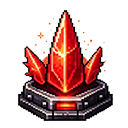
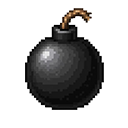
commit15

diff --git a/css/style.css b/css/style.css
@@ -472,7 +472,7 @@ button, input {
   opacity: 0;
   pointer-events: none;
   color: #061120;
-  font-size: 18px;
+  font-size: 20px;
   font-weight: 1000;
   line-height: 1;
   text-align: center;
@@ -524,19 +524,20 @@ button, input {
   opacity: 0;
   transform: translate(-50%, -50%) scale(0.86);
   color: #ffe775;
-  font-size: 21px;
+  font-size: 19px;
   font-weight: 1000;
   line-height: 1;
   text-shadow:
-    0 2px 0 rgba(92, 42, 0, 0.55),
-    0 0 12px rgba(255, 237, 125, 0.95),
-    0 0 30px rgba(255, 85, 124, 0.42);
-  -webkit-text-stroke: 1px rgba(86, 44, 4, 0.42);
+    0 2px 0 rgba(92, 42, 0, 0.92),
+    0 0 15px rgba(255, 237, 125, 1),
+    0 0 34px rgba(255, 85, 124, 0.62),
+    0 0 2px rgba(255, 255, 255, 0.9);
+  -webkit-text-stroke: 1.1px rgba(63, 31, 0, 0.78);
   transition: opacity 0.12s ease, transform 0.12s ease;
 }
 
 .hud-combo-float.visible {
-  opacity: 0.62;
+  opacity: 1;
   transform: translate(-50%, -50%) scale(1);
   animation: comboPulse 0.5s ease-in-out infinite alternate;
 }
@@ -548,15 +549,16 @@ button, input {
   font-weight: 900;
   line-height: 1;
   text-shadow:
-    0 2px 0 rgba(95, 50, 0, 0.5),
-    0 0 10px rgba(255, 228, 95, 0.95),
-    0 0 24px rgba(255, 181, 41, 0.56);
-  -webkit-text-stroke: 1px rgba(82, 43, 0, 0.38);
+    0 2px 0 rgba(95, 50, 0, 0.92),
+    0 0 13px rgba(255, 228, 95, 1),
+    0 0 28px rgba(255, 181, 41, 0.76),
+    0 0 2px rgba(255, 255, 255, 0.86);
+  -webkit-text-stroke: 1.1px rgba(72, 36, 0, 0.76);
 }
 
 @keyframes comboPulse {
-  from { filter: brightness(1); }
-  to { filter: brightness(1.22); }
+  from { filter: brightness(0.96); }
+  to { filter: brightness(1.14); }
 }
 
 @keyframes dashAlertPulse {
@@ -1145,29 +1147,31 @@ body.force-landscape .death-card .btn-secondary {
     top: 30%;
     min-width: 138px;
     padding: 7px 13px;
-    font-size: 15px;
+    font-size: 16px;
   }
 
   .hud-combo-float {
-    font-size: 18px;
+    font-size: 16px;
     text-shadow:
-      0 1px 0 rgba(92, 42, 0, 0.42),
-      0 0 9px rgba(255, 237, 125, 0.72),
-      0 0 20px rgba(255, 85, 124, 0.28);
-    -webkit-text-stroke: 0.5px rgba(86, 44, 4, 0.32);
+      0 1px 0 rgba(92, 42, 0, 0.88),
+      0 0 12px rgba(255, 237, 125, 1),
+      0 0 24px rgba(255, 85, 124, 0.58),
+      0 0 2px rgba(255, 255, 255, 0.88);
+    -webkit-text-stroke: 0.8px rgba(63, 31, 0, 0.7);
   }
 
   .hud-combo-float.visible {
-    opacity: 0.54;
+    opacity: 0.95;
   }
 
   .hud-coin-float {
     font-size: 16px;
     text-shadow:
-      0 1px 0 rgba(95, 50, 0, 0.38),
-      0 0 8px rgba(255, 228, 95, 0.72),
-      0 0 16px rgba(255, 181, 41, 0.36);
-    -webkit-text-stroke: 0.5px rgba(82, 43, 0, 0.28);
+      0 1px 0 rgba(95, 50, 0, 0.86),
+      0 0 11px rgba(255, 228, 95, 1),
+      0 0 21px rgba(255, 181, 41, 0.64),
+      0 0 2px rgba(255, 255, 255, 0.84);
+    -webkit-text-stroke: 0.8px rgba(72, 36, 0, 0.66);
   }
 
   #screen-overlay {

diff --git a/js/hud.js b/js/hud.js
@@ -170,9 +170,7 @@ window.HUD = (function () {
   }
 
   function getComboLabel(combo) {
-    if (combo >= 15) return 'COMBO x5';
-    if (combo >= 10) return 'COMBO x3';
-    if (combo >= 5) return 'COMBO x2';
+    if (combo >= 2) return 'COMBO +' + combo;
     return '';
   }
 
@@ -181,14 +179,16 @@ window.HUD = (function () {
     var el = document.createElement('div');
     el.className = 'hud-coin-float';
     el.textContent = '+' + Math.floor(points);
+    el.style.color = points >= 50 ? '#ff7ab6' : (points >= 20 ? '#76fff0' : '#ffe45f');
     floatLayer.appendChild(el);
     var lane = Math.min(coinFloatItems.length, 3);
     coinFloatItems.push({
       el: el,
       age: 0,
-      life: 0.58,
-      offset: lane * 18,
-      xOffset: lane % 2 === 0 ? 0 : (lane === 1 ? -24 : 24)
+      life: 0.46,
+      offset: lane * 14,
+      xOffset: lane % 2 === 0 ? 0 : (lane === 1 ? -18 : 18),
+      seed: Math.random() * 6.28
     });
     while (coinFloatItems.length > 4) {
       var old = coinFloatItems.shift();
@@ -208,15 +208,27 @@ window.HUD = (function () {
     var viewport = pos.viewport || getFloatViewport();
     var safeX = Math.max(72, Math.min(viewport.width - 72, pos.x));
     var safeY = Math.max(96, Math.min(viewport.height - 92, pos.y));
-    var comboText = (state.elapsedTime - state.lastCoinTime <= 0.72) ? getComboLabel(state.combo) : '';
+    var comboAge = state.elapsedTime - state.lastCoinTime;
+    var comboLife = 0.5;
+    var comboText = (comboAge <= comboLife) ? getComboLabel(state.combo) : '';
 
     if (comboText) {
+      var comboT = Math.max(0, Math.min(1, comboAge / comboLife));
+      var comboFade = Math.min(1, comboT / 0.16) * (1 - comboT);
+      var comboShake = Math.max(0, 1 - comboT / 0.32);
+      var comboShakeX = Math.sin(comboT * 72) * 3 * comboShake;
+      var comboShakeY = Math.cos(comboT * 63) * 2 * comboShake;
+      var comboColors = ['#ffe45f', '#76fff0', '#ff7ab6'];
       comboFloatEl.textContent = comboText;
-      comboFloatEl.style.left = safeX + 'px';
-      comboFloatEl.style.top = (safeY - 16) + 'px';
+      comboFloatEl.style.color = comboColors[Math.min(2, Math.floor(state.combo / 6) % comboColors.length)];
+      comboFloatEl.style.left = (safeX + comboShakeX) + 'px';
+      comboFloatEl.style.top = (safeY - 18 + comboShakeY) + 'px';
+      comboFloatEl.style.opacity = Math.max(0, comboFade);
+      comboFloatEl.style.transform = 'translate(-50%, -50%) scale(' + (0.88 + 0.16 * (1 - comboT)) + ')';
       comboFloatEl.classList.add('visible');
     } else {
       comboFloatEl.classList.remove('visible');
+      comboFloatEl.style.opacity = 0;
     }
 
     dt = Math.min(dt || 0.016, 0.05);
@@ -224,13 +236,17 @@ window.HUD = (function () {
       var item = coinFloatItems[i];
       item.age += dt;
       var t = Math.min(1, item.age / item.life);
+      var fade = Math.min(1, t / 0.18) * (1 - t);
+      var shake = Math.max(0, 1 - t / 0.42);
+      var shakeX = Math.sin(item.seed + t * 84) * 3.2 * shake;
+      var shakeY = Math.cos(item.seed + t * 76) * 2.4 * shake;
       var y = comboText
-        ? safeY + 24 + item.offset * 0.45 - t * 20
-        : safeY + 8 + item.offset * 0.45 - t * 28;
-      item.el.style.left = (safeX + item.xOffset) + 'px';
+        ? safeY + 16 + item.offset * 0.38 - t * 18
+        : safeY + 6 + item.offset * 0.38 - t * 24;
+      item.el.style.left = (safeX + item.xOffset + shakeX) + 'px';
       item.el.style.top = y + 'px';
-      item.el.style.opacity = Math.max(0, 0.78 * (1 - t));
-      item.el.style.transform = 'translate(-50%, -50%) scale(' + (1 + 0.12 * (1 - t)) + ')';
+      item.el.style.opacity = Math.max(0, 0.98 * fade);
+      item.el.style.transform = 'translate(-50%, -50%) scale(' + (0.88 + 0.16 * (1 - t)) + ')';
       if (t >= 1) {
         if (item.el.parentNode) item.el.parentNode.removeChild(item.el);
         coinFloatItems.splice(i, 1);

diff --git a/index.html b/index.html
@@ -6,7 +6,7 @@
   <meta name="apple-mobile-web-app-capable" content="yes">
   <meta name="apple-mobile-web-app-status-bar-style" content="black-translucent">
   <title>星轨穿梭</title>
-  <link rel="stylesheet" href="./css/style.css?v=ui47">
+  <link rel="stylesheet" href="./css/style.css?v=ui51">
   <script>
     (function () {
       try {
@@ -29,17 +29,17 @@
   </div>
 
   <script src="./js/lib/three.min.js"></script>
-  <script src="./js/config.js?v=ui47"></script>
-  <script src="./js/assets.js?v=ui47"></script>
-  <script src="./js/input.js?v=ui47"></script>
-  <script src="./js/ball.js?v=ui47"></script>
-  <script src="./js/pipe.js?v=ui47"></script>
-  <script src="./js/physics.js?v=ui47"></script>
-  <script src="./js/world.js?v=ui47"></script>
+  <script src="./js/config.js?v=ui51"></script>
+  <script src="./js/assets.js?v=ui51"></script>
+  <script src="./js/input.js?v=ui51"></script>
+  <script src="./js/ball.js?v=ui51"></script>
+  <script src="./js/pipe.js?v=ui51"></script>
+  <script src="./js/physics.js?v=ui51"></script>
+  <script src="./js/world.js?v=ui51"></script>
   <script src="./js/effects.js"></script>
-  <script src="./js/audio.js?v=ui47"></script>
-  <script src="./js/hud.js?v=ui47"></script>
-  <script src="./js/screens.js?v=ui47"></script>
-  <script src="./js/main.js?v=ui47"></script>
+  <script src="./js/audio.js?v=ui51"></script>
+  <script src="./js/hud.js?v=ui51"></script>
+  <script src="./js/screens.js?v=ui51"></script>
+  <script src="./js/main.js?v=ui51"></script>
 </body>
 </html>

diff --git a/js/screens.js b/js/screens.js
@@ -56,7 +56,7 @@ window.Screens = (function () {
       ['item_shield.png', '护盾', '抵挡一次伤害'],
       ['item_double.png', '双倍', '限时分数翻倍'],
       ['item_bonus_gate.png', '宝箱', '触发金币奖励'],
-      ['item_spike.png', '地刺', '碰到会扣血'],
+      ['item_spike.png', '炸弹', '碰到会扣血'],
       ['item_barrier.png', '旋转障碍', '环绕移动障碍']
     ];
     var html = '<div class="item-preview" aria-label="道具预览">';
@@ -74,7 +74,7 @@ window.Screens = (function () {
       '<div class="rules-panel">' +
         '<div class="rules-section rules-primary">' +
           '<h3>任务目标</h3>' +
-          '<p>在星轨管道中尽可能跑得更远，收集金币，躲开地刺和旋转障碍。</p>' +
+          '<p>在星轨管道中尽可能跑得更远，收集金币，躲开炸弹和旋转障碍。</p>' +
         '</div>' +
         '<div class="rules-grid">' +
           '<div class="rules-section">' +

diff --git a/js/main.js b/js/main.js
@@ -597,7 +597,7 @@
       }
 
       // Combo 超时
-      if (STATE.elapsedTime - STATE.lastCoinTime > 1.5) {
+      if (STATE.elapsedTime - STATE.lastCoinTime > 0.5) {
         STATE.combo = 0;
       }
 